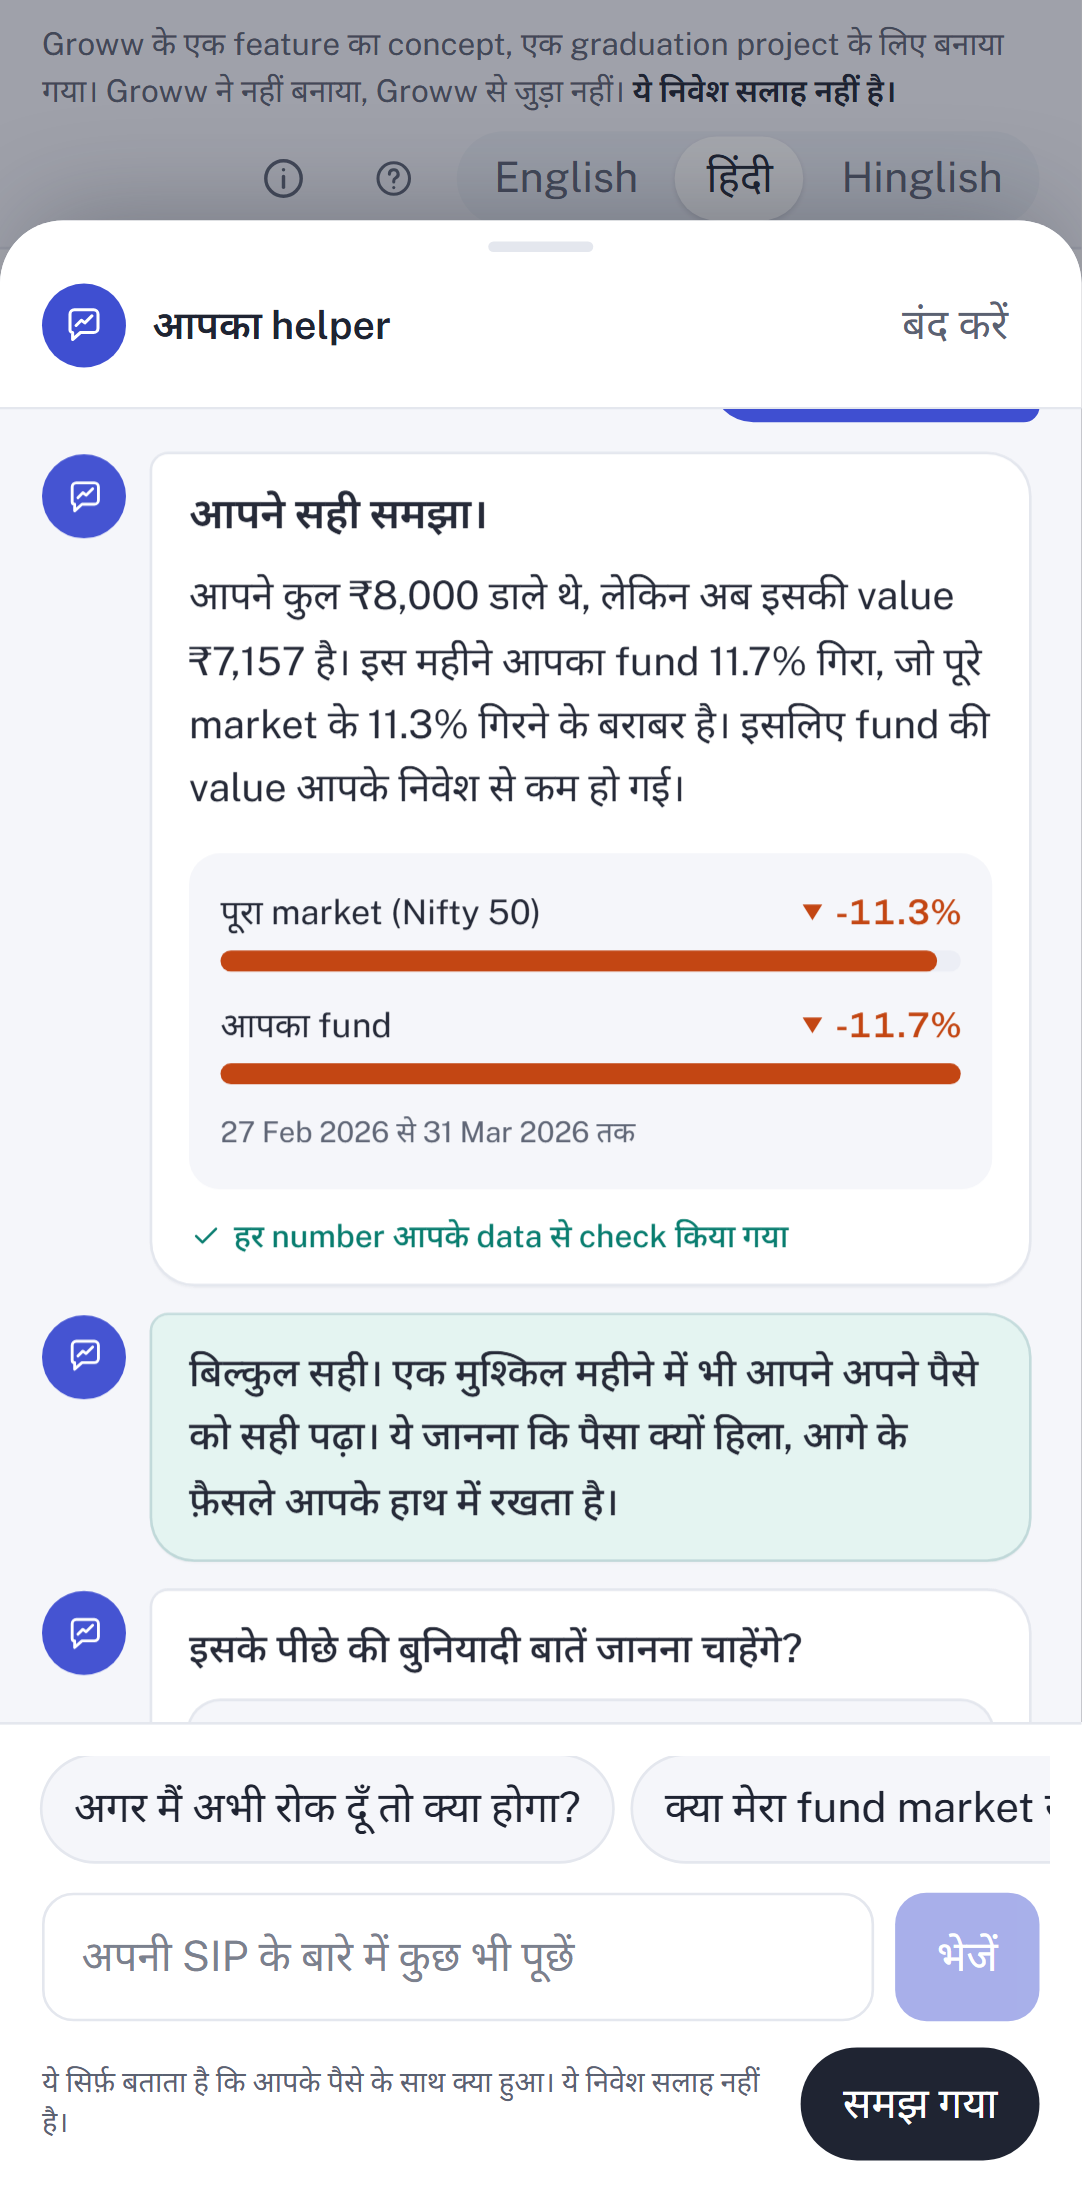
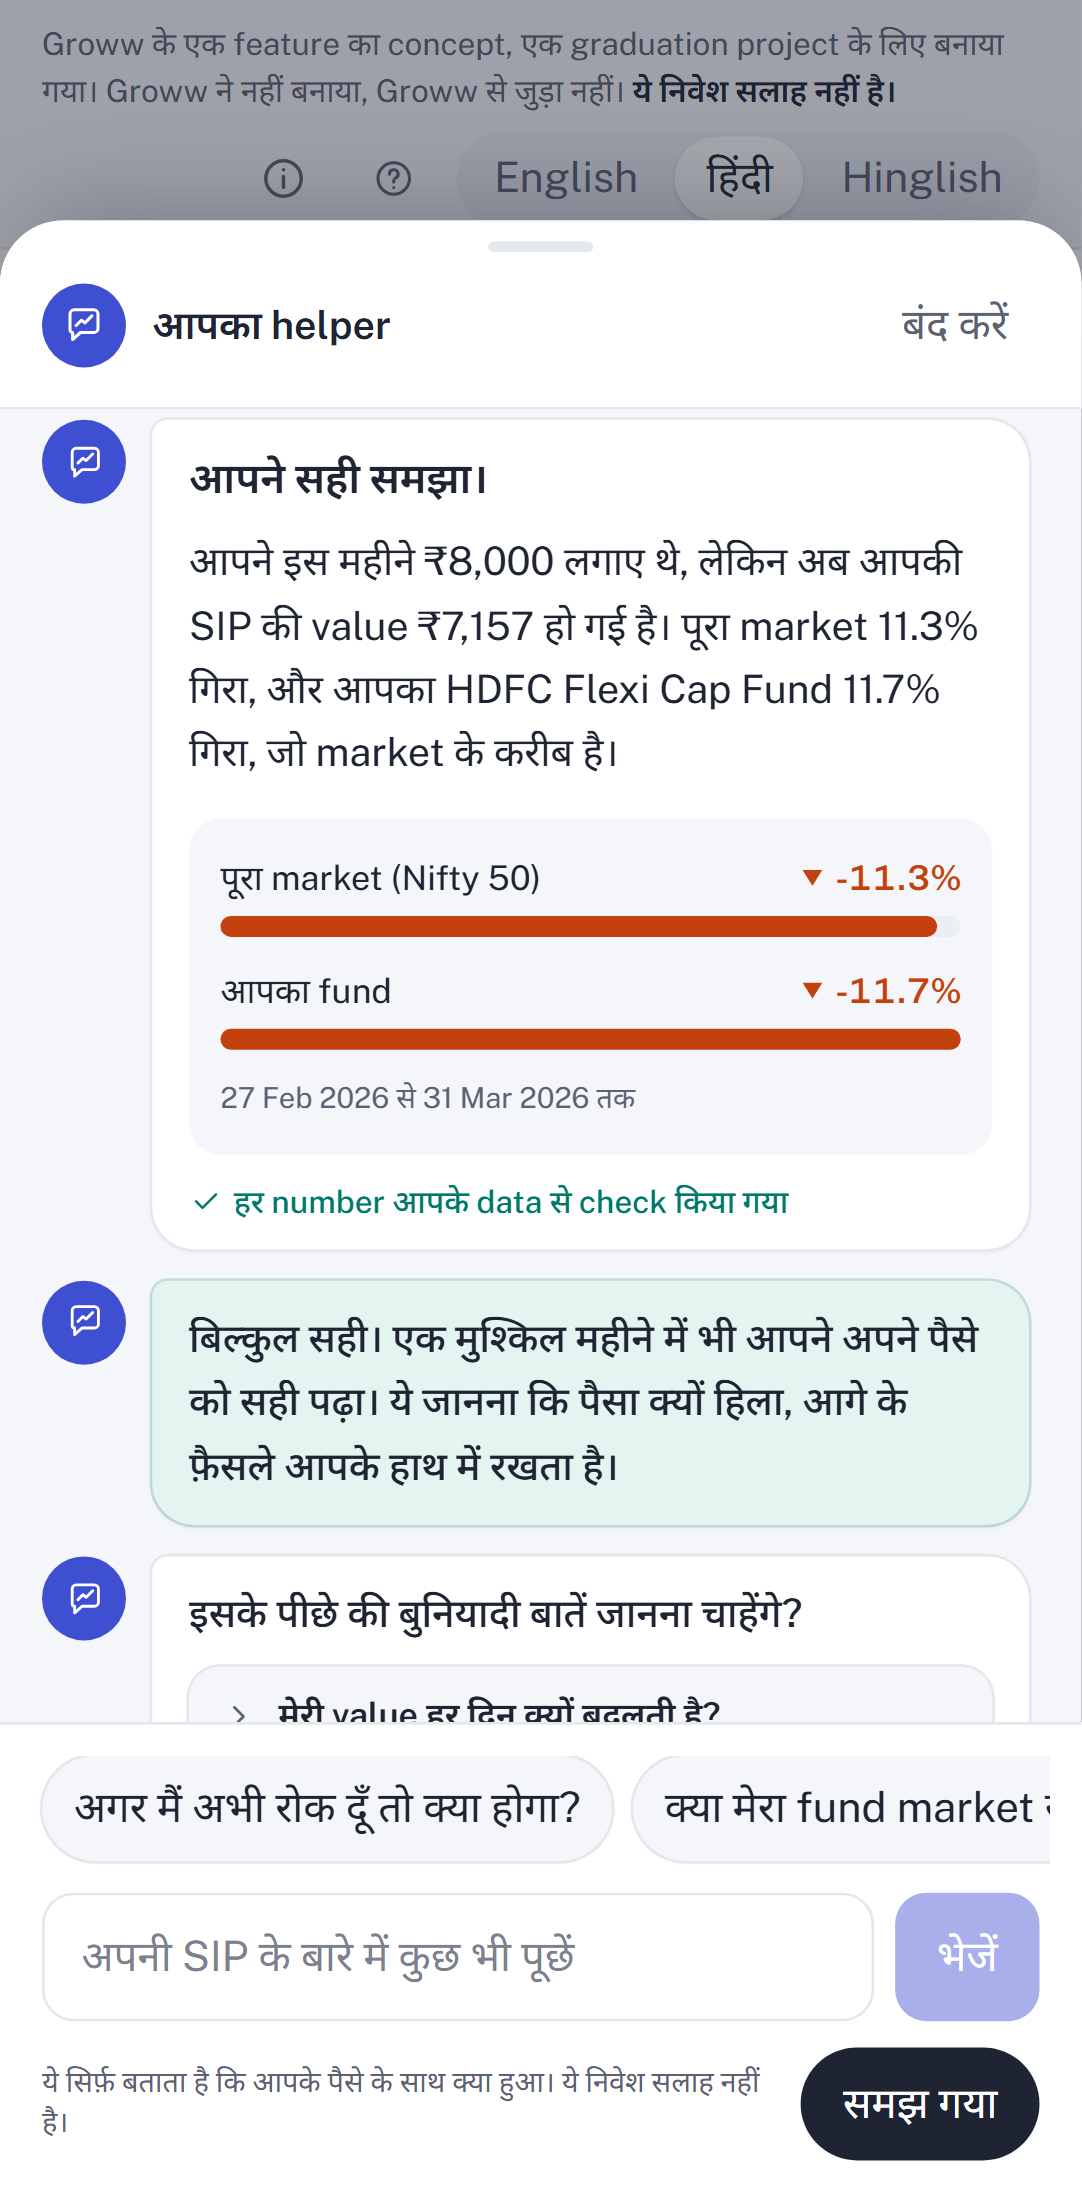
Desktop gets the same Your helper button: it focuses the side panel, which glows once when the helper steps in or is called

diff --git a/src/components/sip/sip-screen.tsx b/src/components/sip/sip-screen.tsx
@@ -1,6 +1,6 @@
 "use client";
 
-import { useMemo, useState } from "react";
+import { useMemo, useRef, useState } from "react";
 import { copy, monthName } from "@/lib/copy/dictionary";
 import { deskCopy } from "@/lib/copy/tour";
 import type { SipResponse } from "@/lib/api/types";
@@ -43,6 +43,8 @@ export function SipScreen({ data, onBack, onSample }: Props) {
   // A dot on the helper button until the person opens what the helper has to say.
   const [unread, setUnread] = useState(false);
   const [waitingOpen, setWaitingOpen] = useState(false);
+  const panelRef = useRef<HTMLDivElement>(null);
+  const [flash, setFlash] = useState(0);
 
   const snap = snapshots[index];
   const atEnd = index === snapshots.length - 1;
@@ -58,12 +60,20 @@ export function SipScreen({ data, onBack, onSample }: Props) {
     if (setbackIndex >= 0 && target === setbackIndex && !seenSetback) {
       setSeenSetback(true);
       setSheetOpen(true);
+      if (desktop) setFlash((n) => n + 1);
       track("setback_shown", { month: snapshots[target].monthNumber });
     }
   }
 
   function openHelper() {
     setUnread(false);
+    if (desktop) {
+      // Desktop: the panel is always open, so the button brings it into focus and makes it glow once.
+      setFlash((n) => n + 1);
+      // The panel re-mounts to replay its glow, so focus it on the next frame.
+      requestAnimationFrame(() => panelRef.current?.focus({ preventScroll: true }));
+      return;
+    }
     if (seenSetback && facts) setSheetOpen(true);
     else setWaitingOpen(true);
   }
@@ -279,7 +289,21 @@ export function SipScreen({ data, onBack, onSample }: Props) {
               <div className="rounded-2xl bg-paper p-5 ring-1 ring-line">{chartBlock("h-72")}</div>
 
               <div className="grid grid-cols-2 items-start gap-5">
-                <div className="rounded-2xl bg-paper p-4 ring-1 ring-line">{replayControls}</div>
+                <div className="flex flex-col gap-3 rounded-2xl bg-paper p-4 ring-1 ring-line">
+                  <button
+                    type="button"
+                    onClick={openHelper}
+                    className="relative inline-flex min-h-12 shrink-0 items-center gap-2 rounded-xl bg-primary-soft px-3.5 text-sm font-semibold text-primary ring-1 ring-primary/25"
+                    data-testid="helper-fab"
+                  >
+                    <span className="relative">
+                      <HelperIcon width={20} height={20} />
+                      {unread && <span className="absolute -right-1 -top-1 size-2.5 rounded-full bg-loss ring-2 ring-primary-soft" aria-hidden />}
+                    </span>
+                    {t(deskCopy.helperTitle)}
+                  </button>
+                  {replayControls}
+                </div>
                 {sipCard}
               </div>
               {endBox}
@@ -288,7 +312,13 @@ export function SipScreen({ data, onBack, onSample }: Props) {
             </section>
 
             <aside className="sticky top-6 self-start">
-              <div className="flex h-[calc(100dvh-8rem)] min-h-[520px] flex-col overflow-hidden rounded-2xl bg-paper ring-1 ring-line">
+              <div
+                key={flash}
+                ref={panelRef}
+                tabIndex={-1}
+                className={`flex h-[calc(100dvh-8rem)] min-h-[520px] flex-col overflow-hidden rounded-2xl bg-paper outline-none ring-1 ring-line ${flash ? "panel-flash" : ""}`}
+                data-testid="helper-panel"
+              >
                 <div className="flex shrink-0 items-center gap-2.5 border-b border-line px-5 py-3.5">
                   <span className="grid size-8 place-items-center rounded-full bg-primary text-paper" aria-hidden>
                     <HelperIcon width={16} height={16} />

diff --git a/e2e/sample-flow.spec.ts b/e2e/sample-flow.spec.ts
@@ -212,3 +212,14 @@ test("tour of the helper: it explains the question, then the answer, the questio
   await page.getByTestId("tour-next").click();
   await expect(tour).toBeHidden();
 });
+
+test("helper: on desktop the same Your helper button brings the panel into focus", async ({ page }, info) => {
+  test.skip(info.project.name !== "desktop", "the side panel is the desktop layout");
+  await page.goto("/");
+  await page.getByTestId("sample").click();
+  await page.getByTestId("sample-start").click();
+  await page.getByTestId("helper-fab").click();
+  await expect(page.getByTestId("helper-panel")).toBeFocused();
+  await page.getByTestId("skip").first().click();
+  await expect(page.getByTestId("helper")).toBeVisible();
+});

diff --git a/src/app/globals.css b/src/app/globals.css
@@ -386,3 +386,25 @@ button {
     animation: none;
   }
 }
+
+/* ---------- Desktop: the helper panel glows once when it steps in or is called ---------- */
+
+@keyframes panel-flash {
+  0% {
+    box-shadow: 0 0 0 0 rgba(63, 79, 209, 0.55);
+  }
+  60% {
+    box-shadow: 0 0 0 10px rgba(63, 79, 209, 0);
+  }
+  100% {
+    box-shadow: 0 0 0 0 rgba(63, 79, 209, 0);
+  }
+}
+.panel-flash {
+  animation: panel-flash 900ms ease-out 2;
+}
+@media (prefers-reduced-motion: reduce) {
+  .panel-flash {
+    animation: none;
+  }
+}
